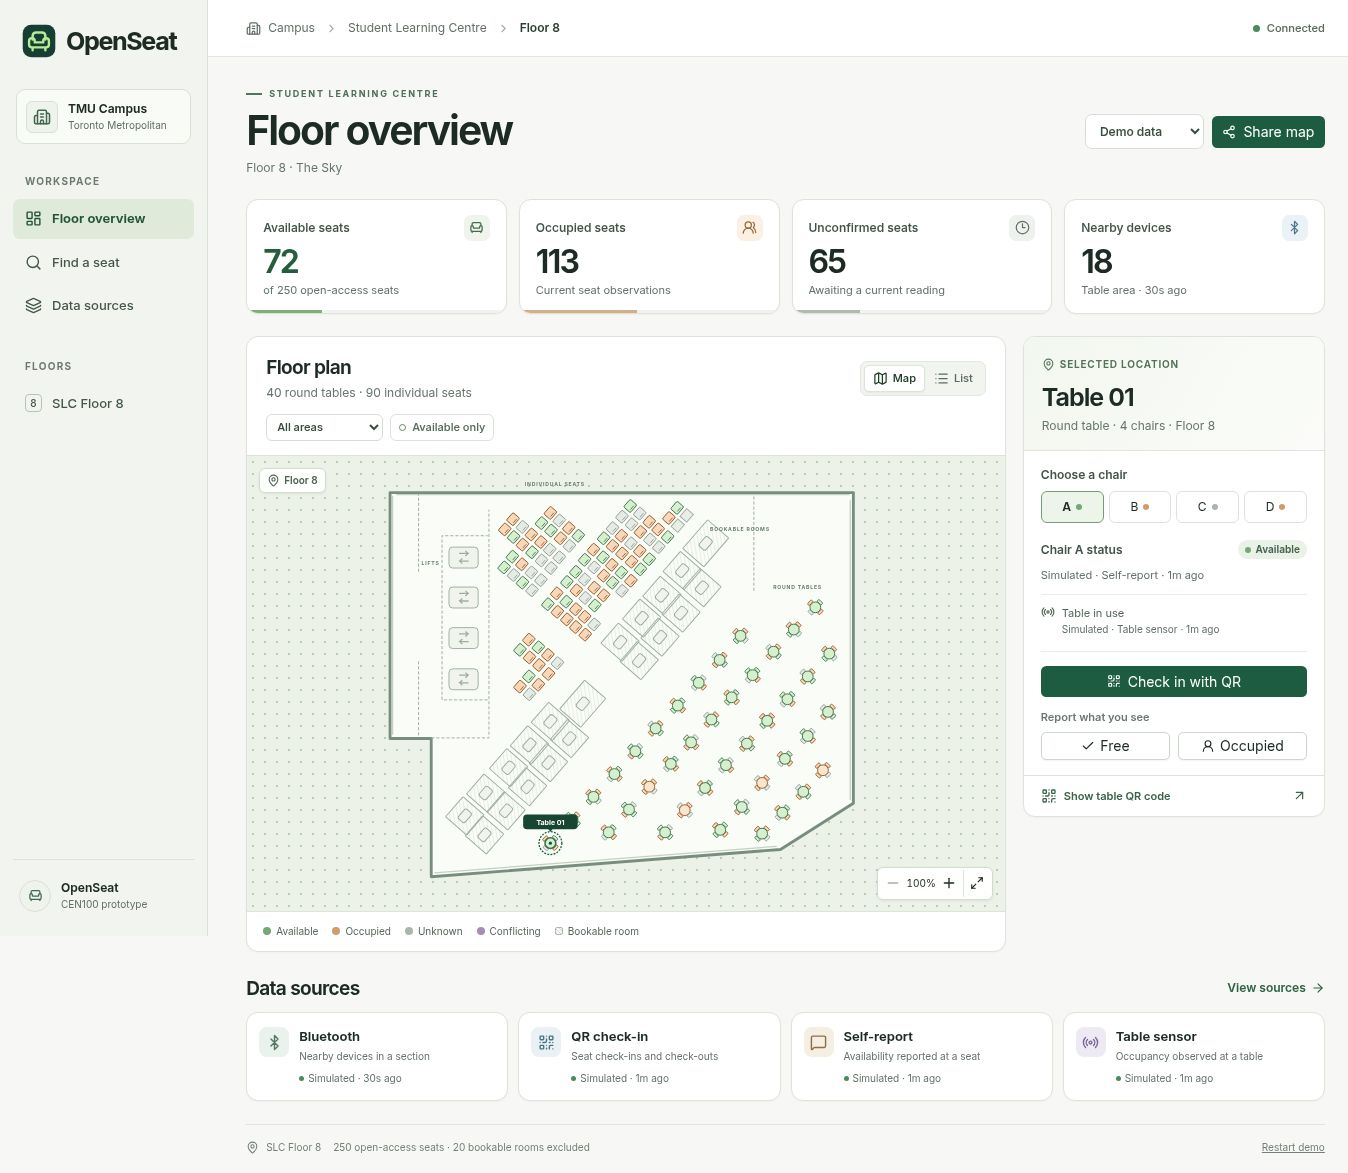
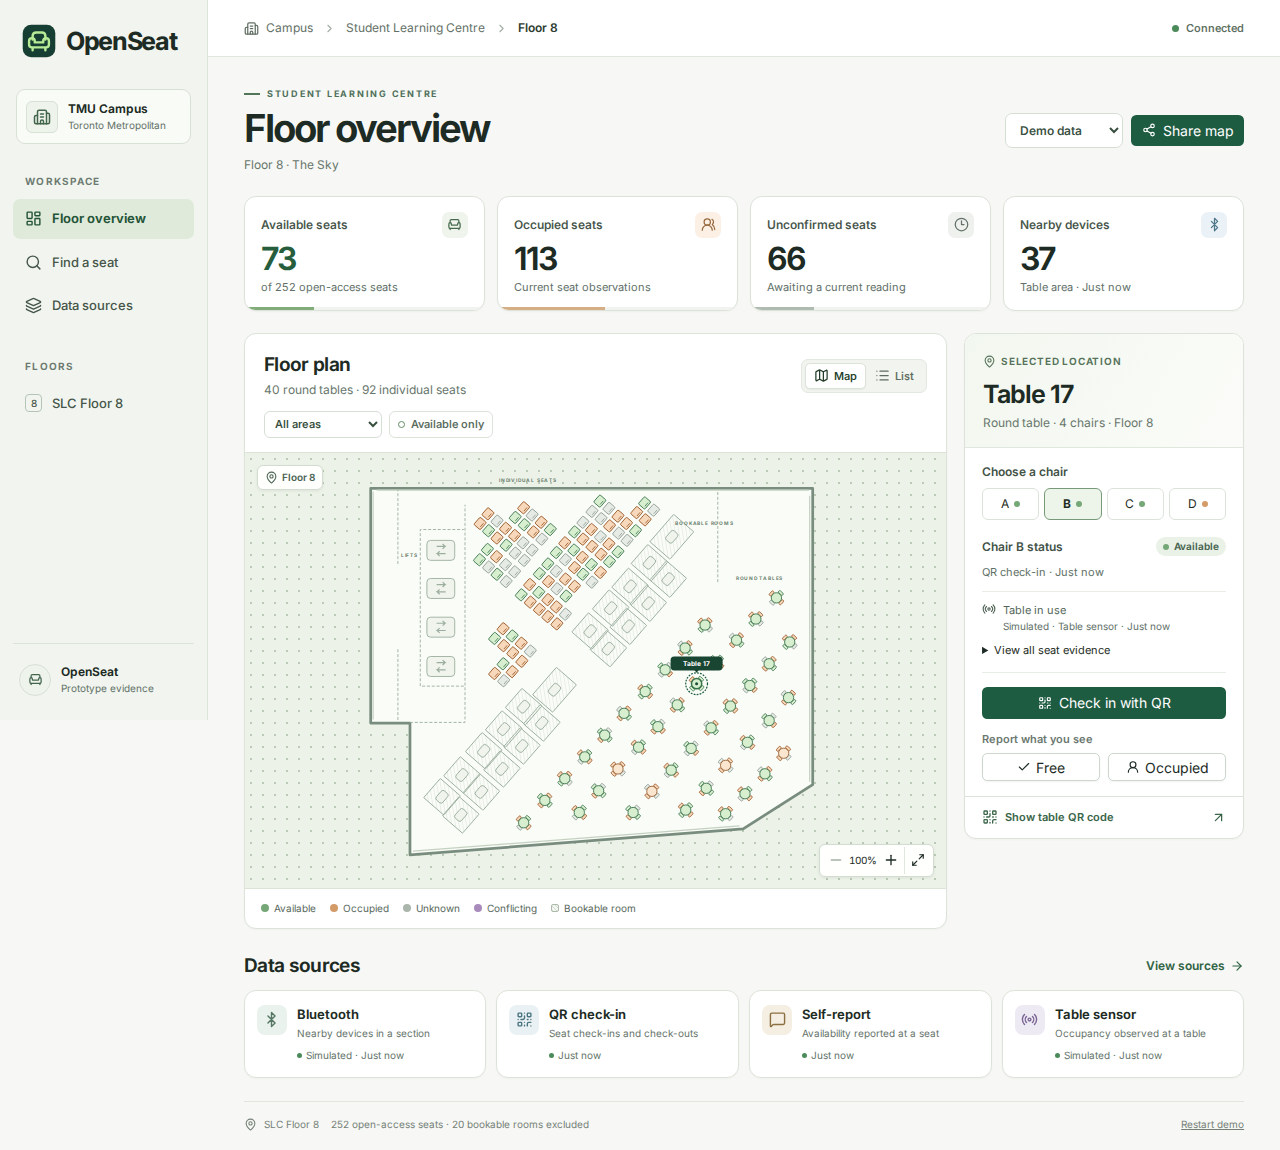
Refresh prototype evidence for the corrected inventory

diff --git a/tests/browser/prototype.spec.js b/tests/browser/prototype.spec.js
@@ -48,7 +48,6 @@ test('Floor inventory, filter and independent mobile QR session use all four sou
   await page.getByRole('button', { name: 'Show table QR code' }).click()
   const img = page.getByRole('img', { name: 'QR code for Table 17' })
   await expect(img).toBeVisible()
-  await page.screenshot({ path: testInfo.outputPath('table-qr.png'), animations: 'disabled' })
   const png = PNG.sync.read(
     Buffer.from((await img.getAttribute('src')).split(',')[1], 'base64'),
   )

diff --git a/docs/prototype-evidence.md b/docs/prototype-evidence.md
@@ -30,7 +30,7 @@ The planned phone, iPad, floor drawing and BLE2MQTT scans were already available
 
 **Stage 3.** A table QR carries the floor session and table. It opens an explicit check-in screen where one tester can choose a chair on a second device. The code and shared state were exercised with test sessions.
 
-![An actual table QR code generated by the published prototype for a demo session](evidence/03-table-qr.jpg)
+![Public Table 17 QR code and shareable link](evidence/03-table-qr.jpg)
 
 ## Calibration already completed
 
